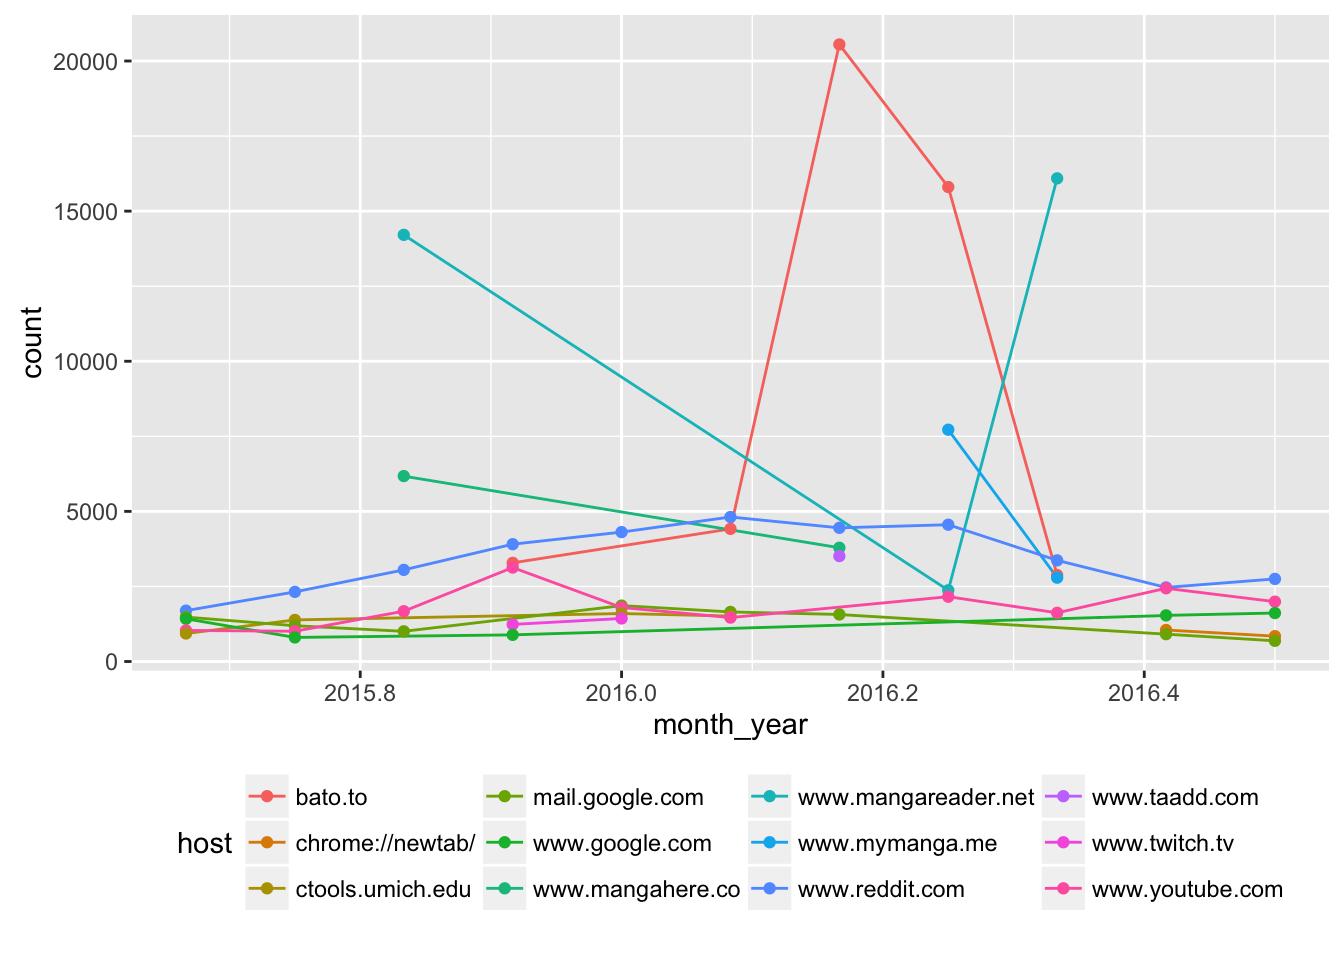
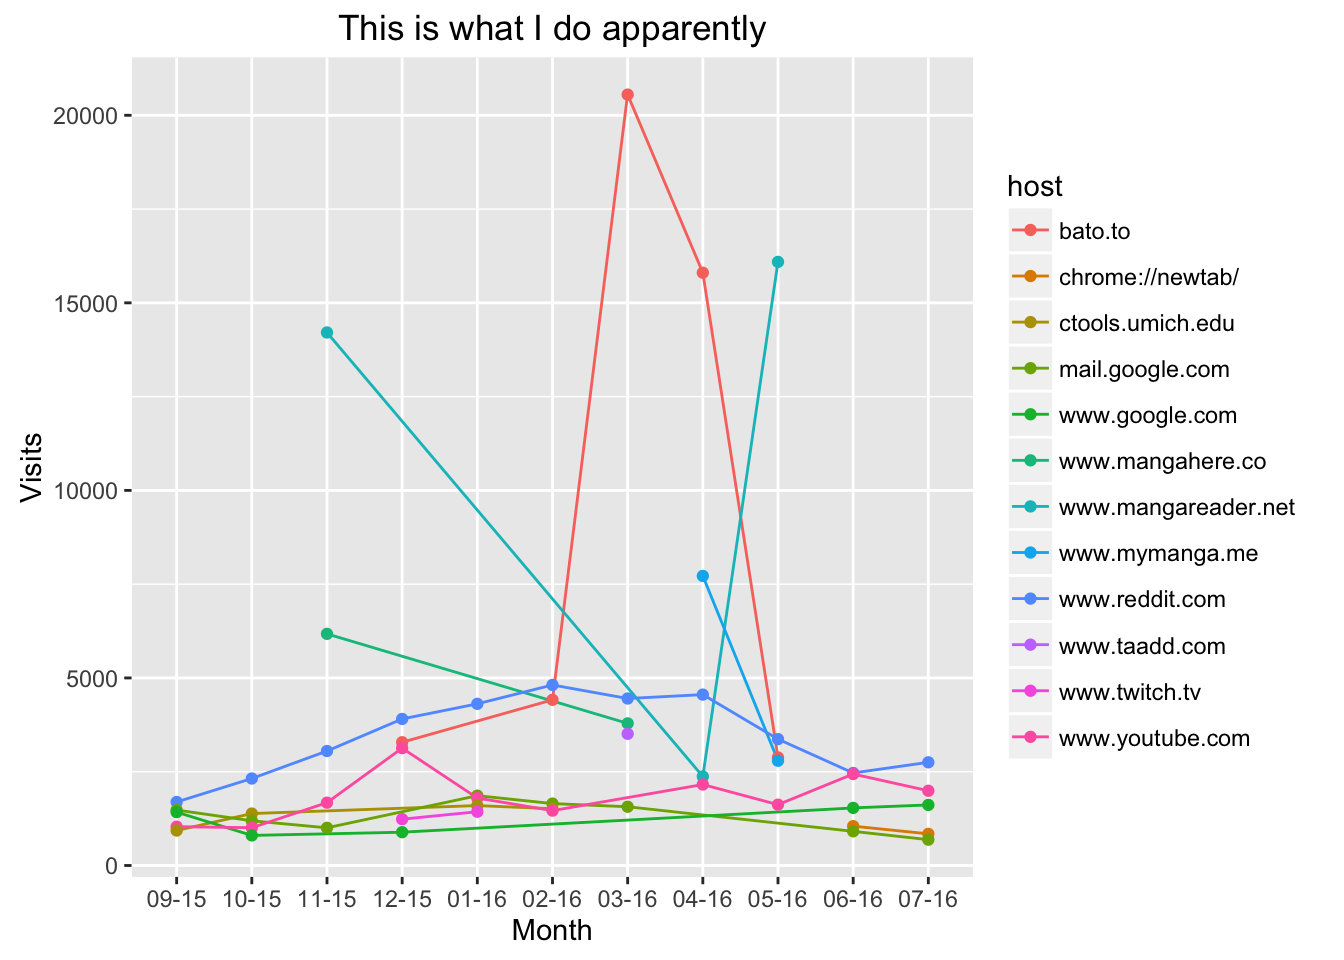
Fixed graph labels

diff --git a/browser_history_graph.html b/browser_history_graph.html
@@ -336,7 +336,7 @@ rm(bhistory)</code></pre>
 <pre class="r"><code>url.regex = &quot;^https?://([^/]+)/(.*)$&quot;
 dt[, date_time := as.POSIXct(time_usec/1000000, tz = &quot;EST&quot;, origin = &quot;1970-01-01&quot;)]
 dt[, month := as.numeric(format(date_time, &quot;%m&quot;))]
-dt[, year := as.numeric(format(date_time, &quot;%Y&quot;))]
+dt[, year := as.numeric(format(date_time, &quot;%y&quot;))]
 dt[, host := gsub(url.regex, &quot;\\1&quot;, url)]</code></pre>
 </div>
 <div id="line-graph" class="section level2">
@@ -347,25 +347,25 @@ dt[, host := gsub(url.regex, &quot;\\1&quot;, url)]</code></pre>
 <pre class="r"><code>library(zoo)
 q = 5L
 line.graph.data = dt[, .(count=.N), by = c(&quot;year&quot;,&quot;month&quot;,&quot;host&quot;)][order(year,month,-count)][, lapply(.SD, function(x) head(x, n=q)), by = c(&quot;year&quot;,&quot;month&quot;)]
-line.graph.data[, month_year := as.yearmon(paste(month, year, sep=&quot;-&quot;), &quot;%m-%Y&quot;)]
-setorder(line.graph.data, month_year)</code></pre>
+line.graph.data[, month_year := as.yearmon(paste(month, year, sep=&quot;-&quot;), &quot;%m-%y&quot;)]</code></pre>
 <pre class="r"><code>head(line.graph.data)</code></pre>
 <pre><code>##    year month             host count month_year
-## 1: 2015     9   www.reddit.com  1694   Sep 2015
-## 2: 2015     9  mail.google.com  1479   Sep 2015
-## 3: 2015     9   www.google.com  1423   Sep 2015
-## 4: 2015     9  www.youtube.com  1035   Sep 2015
-## 5: 2015     9 ctools.umich.edu   933   Sep 2015
-## 6: 2015    10   www.reddit.com  2319   Oct 2015</code></pre>
+## 1:   15     9   www.reddit.com  1694   Sep 2015
+## 2:   15     9  mail.google.com  1479   Sep 2015
+## 3:   15     9   www.google.com  1423   Sep 2015
+## 4:   15     9  www.youtube.com  1035   Sep 2015
+## 5:   15     9 ctools.umich.edu   933   Sep 2015
+## 6:   15    10   www.reddit.com  2319   Oct 2015</code></pre>
 </div>
 <div id="produce-line-graph" class="section level3">
 <h3>Produce line graph</h3>
 <p>Used <a href="http://www.cookbook-r.com/Graphs/Bar_and_line_graphs_(ggplot2)/">this website</a> as a reference for producing this graph.</p>
 <pre class="r"><code>library(ggplot2)
-ggplot(data=line.graph.data, aes(x=month_year, y=count, group=host, color=host, label=host)) +
+ggplot(data=line.graph.data, aes(x=factor(month_year, labels = unique(format(month_year, &quot;%m-%y&quot;))), y=count, group=host, color=host, label=host)) +
     geom_line() +
     geom_point() +
-    theme(legend.position=&quot;bottom&quot;)</code></pre>
+    labs(y = &quot;Visits&quot;, x = &quot;Month&quot;) + 
+    ggtitle(&quot;This is what I do apparently&quot;)</code></pre>
 <p><img src="browser_history_graph_files/figure-html/browser_history_line_graph-1.png" width="672" /></p>
 </div>
 </div>

diff --git a/index.html b/index.html
@@ -210,8 +210,8 @@ $(document).ready(function () {
 
 <p>Hello, Website!</p>
 <div class="figure">
-<img src="browser_history_graph_files/figure-html/browser_history_line_graph-1.png" alt="test" />
-<p class="caption">test</p>
+<img src="browser_history_graph_files/figure-html/browser_history_line_graph-1.png" alt="tfw I don’t actually read very much manga but each click on a manga site counts as a visit" />
+<p class="caption">tfw I don’t actually read very much manga but each click on a manga site counts as a visit</p>
 </div>
 
 <p>I don't have a Copyright &copy; 2016 :( All rights reserved.</p>
